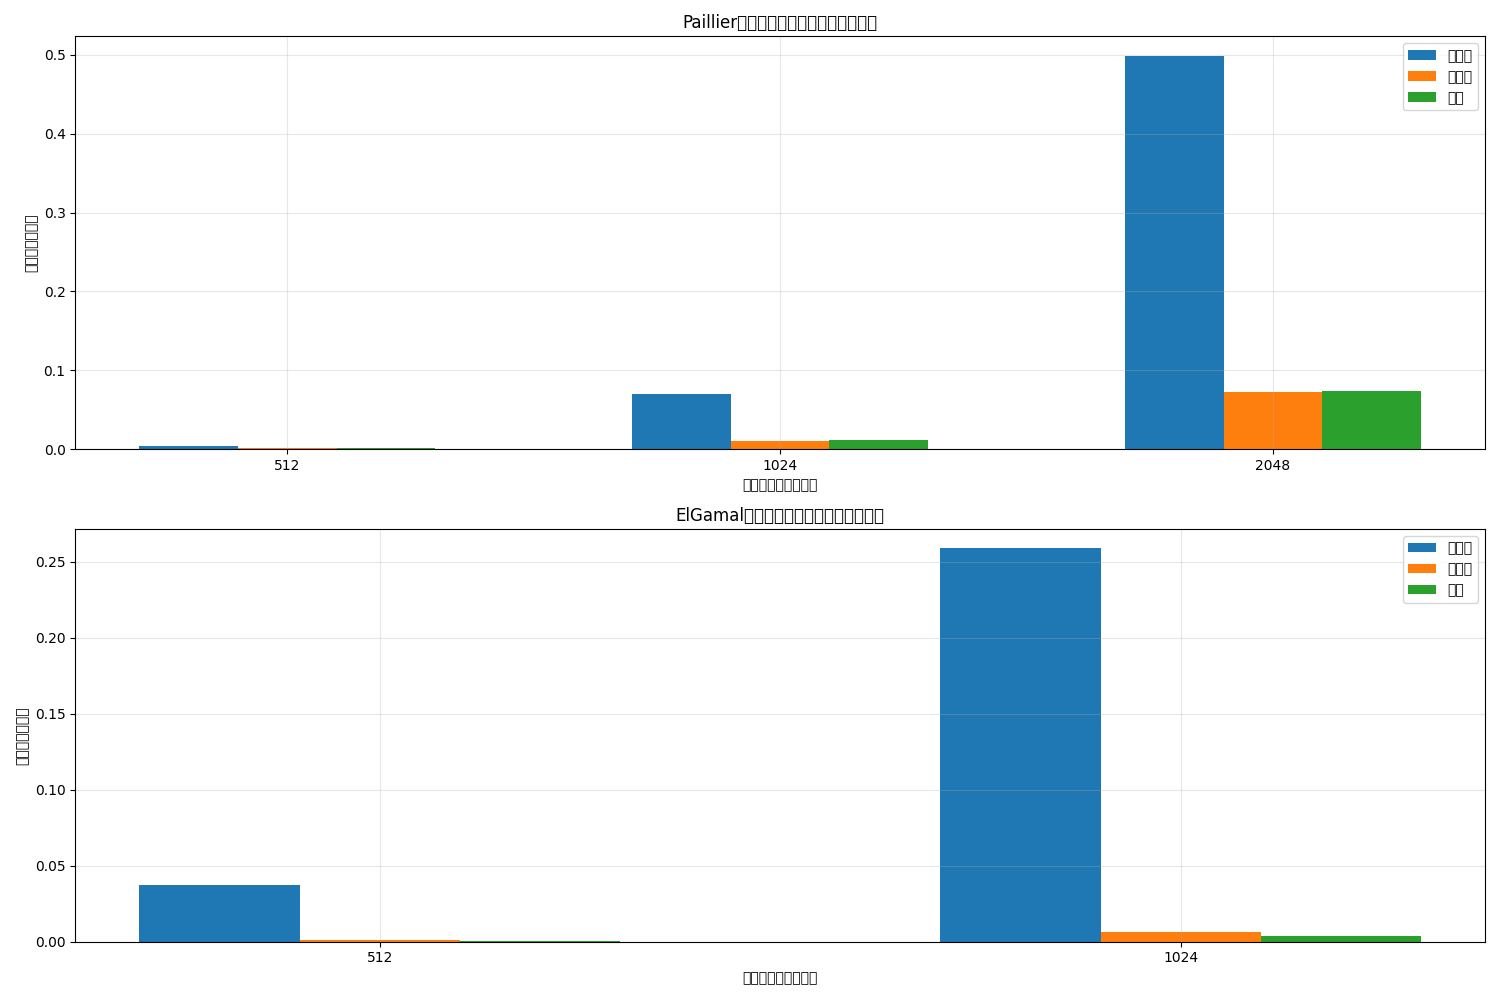
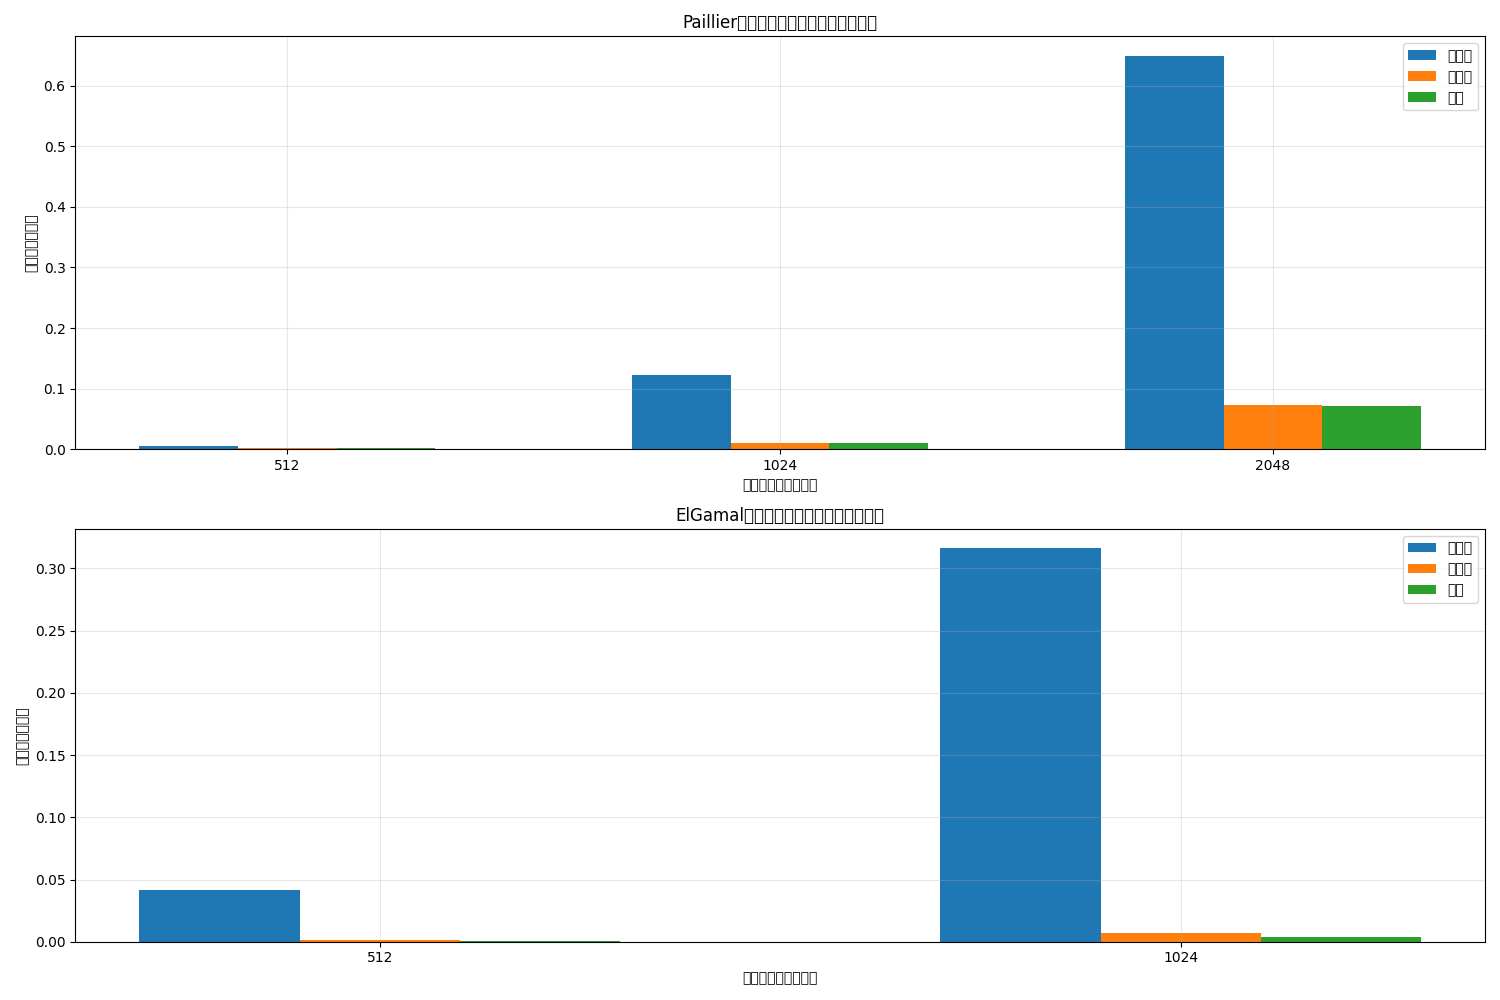
📄 ドキュメント更新とテスト出力の修正\n\n- 'docs/readme_parts/10_0_issues.md'の内容を明確化し、全体の作業計画の確認を促す文を追加\n- 新しいバイナリファイル'demo_homomorphic.cpython-312.pyc'を追加\n- ElGamalおよびPaillier暗号のテスト出力JSONファイルを更新し、暗号パラメータを修正\n- パフォーマンス測定用の画像ファイル'cryptography_performance.png'を更新

diff --git a/docs/pronpt/issueの実行-確認.md b/docs/pronpt/issueの実行-確認.md
@@ -70,7 +70,7 @@
 
 [全体の計画]
 
-- 'docs/readme_parts/10_0_issues.md'細分化して計画されています
+- 'docs/readme_parts/10_0_issues.md'細分化して計画されています。本タスクの範囲外の実装を行わないように全体の作業計画を確認してください
 
 [前提となる要件仕様]
 
